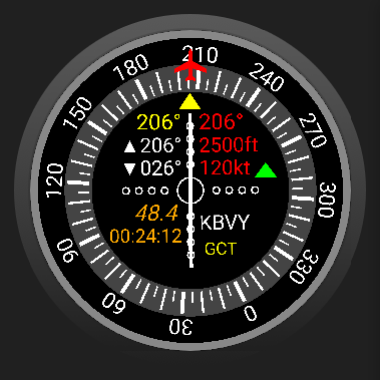
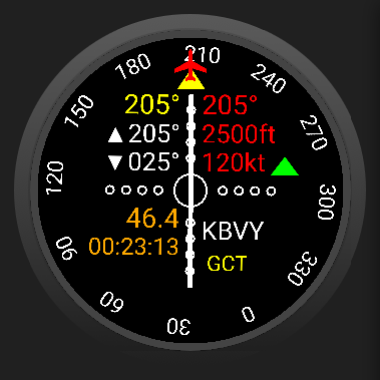
remove non-simplified display mode

Changed region(s): [[0.0579, 0.0579, 0.9263, 0.9263]]

diff --git a/icons/help.html b/icons/help.html
@@ -252,11 +252,6 @@
                             </UL>
                         <LI><B>HSI</B> - select HSI mode for nav dial (airplane always at top); else OBS with yellow triangle always at top
                         <LI><B>Ambient</B> - slow to 20 seconds per GPS sample in ambient mode; else maintain 1 second per sample
-                        <LI><B>Simplify</B> - simplify nav dial page allowing text to be enlarged
-                            <TABLE>
-                                <TR><TD>Normal</TD><TD>Simplified</TD></TR>
-                                <TR><TD><IMG SRC="main-page.png" WIDTH=107 HEIGHT=107></TD><TD><IMG SRC="simplified.png" WIDTH=107 HEIGHT=107></TD></TR>
-                            </TABLE>
                         <LI><B>Time Dots</B> - display time received from GPS as dots around the perimeter of displays
                             <UL>
                                 <LI><FONT COLOR=RED>RED</FONT> dot indicates HOURS

diff --git a/app/src/main/java/com/outerworldapps/hsiwatch/OBSDialView.java b/app/src/main/java/com/outerworldapps/hsiwatch/OBSDialView.java
@@ -39,7 +39,6 @@ public abstract class OBSDialView extends DialFlickView {
 
     protected final static int INNARDSRADIUS = 630;
     protected abstract double getDispMagVar ();
-    protected abstract boolean getSimplify ();
     protected abstract void onDrawInnards (Canvas canvas, double trueup, double scale);
 
     private boolean firstTime;
@@ -54,10 +53,7 @@ public abstract class OBSDialView extends DialFlickView {
     private MainActivity mainActivity;
     private Paint adfNeedlePaint;
     private Paint dialBackPaint;
-    private Paint dialFatPaint;
-    private Paint dialMidPaint;
     private Paint dialTextPaint;
-    private Paint dialThinPaint;
     private Paint dirArrowPaint;
     private Paint dmeDistPaint;
     private Paint dmeTimePaint;
@@ -99,23 +95,11 @@ public abstract class OBSDialView extends DialFlickView {
         dialBackPaint.setStrokeWidth (175);
         dialBackPaint.setStyle (Paint.Style.STROKE);
 
-        dialFatPaint = new Paint ();
-        dialFatPaint.setColor (Color.WHITE);
-        dialFatPaint.setStrokeWidth (25);
-
-        dialMidPaint = new Paint ();
-        dialMidPaint.setColor (Color.WHITE);
-        dialMidPaint.setStrokeWidth (15);
-
         dialTextPaint = new Paint ();
         dialTextPaint.setColor (Color.WHITE);
         dialTextPaint.setStrokeWidth (10);
         dialTextPaint.setTextAlign (Paint.Align.CENTER);
         dialTextPaint.setTextSize (140);
-
-        dialThinPaint = new Paint ();
-        dialThinPaint.setColor (Color.WHITE);
-        dialThinPaint.setStrokeWidth (10);
 
         dirArrowPaint = new Paint ();
         dirArrowPaint.setStyle (Paint.Style.FILL_AND_STROKE);
@@ -321,9 +305,6 @@ public abstract class OBSDialView extends DialFlickView {
         canvas.save ();
         try {
 
-            // simplified format
-            boolean simplify = getSimplify ();
-
             // set up translation/scaling so that outer ring is radius 1000 centered at 0,0
             float width = getWidth ();
             float height = getHeight ();
@@ -395,53 +376,27 @@ public abstract class OBSDialView extends DialFlickView {
             canvas.save ();
             try {
                 canvas.clipPath (circleClipPath);
-                if (simplify) {
-                    canvas.scale (SIMPLESCALE, SIMPLESCALE);
-                    scale *= SIMPLESCALE;
-                }
+                canvas.scale (SIMPLESCALE, SIMPLESCALE);
+                scale *= SIMPLESCALE;
                 onDrawInnards (canvas, trueup, scale);
             } finally {
                 canvas.restore ();
             }
-
-            // draw backing for tickmarks
-            if (!simplify) canvas.drawCircle (0, 0, 718, dialBackPaint);
 
             // everything below drawn assuming magnetic north is up
             canvas.rotate ((float) -magvar);
 
             // draw OBS dial with "0" at top
             canvas.drawCircle (0, 0, 890, obsBackPaint);
-            int step = simplify ? 30 : 5;
-            for (int deg = 0; deg < 360; deg += step) {
-                switch ((deg / 5) % 6) {
-                    case 0: {
-                        // number and a thick line
-                        canvas.drawText (Integer.toString (deg), 0, -823, dialTextPaint);
-                        if (!simplify) canvas.drawLine (0, -647, 0, -788, dialFatPaint);
-                        break;
-                    }
-                    case 2:
-                    case 4: {
-                        // a medium line
-                        canvas.drawLine (0, -647, 0, -788, dialMidPaint);
-                        break;
-                    }
-                    case 1:
-                    case 3:
-                    case 5: {
-                        // a small thin line
-                        canvas.drawLine (0, -647, 0, -718, dialThinPaint);
-                        break;
-                    }
-                }
-                canvas.rotate (step);
+            for (int deg = 0; deg < 360; deg += 30) {
+                canvas.drawText (Integer.toString (deg), 0, -823, dialTextPaint);
+                canvas.rotate (30);
             }
 
             // draw obs triangle
             canvas.save ();
             try {
-                if (simplify) canvas.scale (SIMPLESCALE, SIMPLESCALE);
+                canvas.scale (SIMPLESCALE, SIMPLESCALE);
                 canvas.rotate ((float) mainActivity.obsSetting);
                 canvas.drawPath (obsArrowPath, obsArrowPaint);
             } finally {

diff --git a/app/src/main/java/com/outerworldapps/hsiwatch/DownloadThread.java b/app/src/main/java/com/outerworldapps/hsiwatch/DownloadThread.java
@@ -40,12 +40,13 @@ import java.net.HttpURLConnection;
 import java.net.URL;
 import java.security.MessageDigest;
 import java.security.NoSuchAlgorithmException;
-import java.text.ParseException;
 import java.text.SimpleDateFormat;
 import java.util.Date;
 import java.util.Locale;
 import java.util.TimeZone;
 import java.util.zip.GZIPInputStream;
+
+import androidx.annotation.NonNull;
 
 /**
  * Thread what downloads latest database.
@@ -79,7 +80,7 @@ public class DownloadThread implements DatabaseErrorHandler, Runnable {
     public void deleteAll ()
     {
         File[] files = new File (dbdir).listFiles ();
-        for (File file : files) {
+        if (files != null) for (File file : files) {
             Lib.Ignored (file.delete ());
         }
     }
@@ -101,6 +102,7 @@ public class DownloadThread implements DatabaseErrorHandler, Runnable {
             latestdb = 0;
             SimpleDateFormat sdf = new SimpleDateFormat ("yyyyMMdd", Locale.US);
             sdf.setTimeZone (TimeZone.getTimeZone ("UTC"));
+            //noinspection ConstantConditions
             for (File oldfile : new File (dbdir).listFiles ()) {
                 String oldname = oldfile.getName ();
                 if (oldname.startsWith ("wayptabbs_") && oldname.endsWith (".db")) {
@@ -112,6 +114,7 @@ public class DownloadThread implements DatabaseErrorHandler, Runnable {
                     }
                     try {
                         String expstr = oldname.substring (10, oldname.length () - 3);
+                        @SuppressWarnings("ConstantConditions")
                         long dbexp = sdf.parse (expstr).getTime ();
                         if (latestdb < dbexp) {
                             latestdb = dbexp;
@@ -245,6 +248,7 @@ public class DownloadThread implements DatabaseErrorHandler, Runnable {
                 }
 
                 // delete any old files (including temps)
+                //noinspection ConstantConditions
                 for (File oldfile : new File (dbdir).listFiles ()) {
                     if (oldfile.getName ().startsWith ("wayptabbs_") && ! oldfile.equals (permfile)) {
                         //noinspection ResultOfMethodCallIgnored
@@ -386,7 +390,7 @@ public class DownloadThread implements DatabaseErrorHandler, Runnable {
 
         // read next block, either from old temp file or from network
         @Override
-        public int read (byte[] buf, int ofs, int len)
+        public int read (@NonNull byte[] buf, int ofs, int len)
                 throws IOException
         {
             if (len > filesize - bytesread) len = (int) (filesize - bytesread);
@@ -498,9 +502,10 @@ public class DownloadThread implements DatabaseErrorHandler, Runnable {
         SimpleDateFormat sdf = new SimpleDateFormat ("yyyyMMdd", Locale.US);
         sdf.setTimeZone (TimeZone.getTimeZone ("UTC"));
         try {
+            //noinspection ConstantConditions
             latestdb = sdf.parse (dbpath.substring (i + 11, i + 19)).getTime ();
-        } catch (ParseException pe) {
-            throw new IllegalArgumentException ("bad dbpath " + dbpath, pe);
+        } catch (Exception e) {
+            throw new IllegalArgumentException ("bad dbpath " + dbpath, e);
         }
 
         dbexp = dbpath.substring (i + 11, i + 15) + "-" +

diff --git a/app/src/main/java/com/outerworldapps/hsiwatch/MainActivity.java b/app/src/main/java/com/outerworldapps/hsiwatch/MainActivity.java
@@ -246,9 +246,11 @@ public class MainActivity extends WearableActivity {
     @Override
     public void onDestroy ()
     {
-        navModeButton.setMode (NavDialView.Mode.OFF);
-        currentMainPage = null;
-        activateGPS ();
+        if (navModeButton != null) {
+            navModeButton.setMode (NavDialView.Mode.OFF);
+            currentMainPage = null;
+            activateGPS ();
+        }
 
         super.onDestroy ();
     }
@@ -394,21 +396,17 @@ public class MainActivity extends WearableActivity {
         // maybe load up waypoint from preferences
         SharedPreferences prefs = getPreferences (MODE_PRIVATE);
         String navWayptId = prefs.getString ("navWayptId", "");
-        if ((navWayptId != null) && ! navWayptId.equals ("")) {
+        if (! navWayptId.equals ("")) {
             navModeButton.identEntry.setText (navWayptId);
             SQLiteDatabase sqldb = downloadThread.getSqlDB ();
             if (sqldb != null) {
                 LatLon refll = new LatLon ();
-                //noinspection ConstantConditions
                 refll.lat = Double.parseDouble (prefs.getString ("navWayptLat", "0.0"));
-                //noinspection ConstantConditions
                 refll.lon = Double.parseDouble (prefs.getString ("navWayptLon", "0.0"));
                 setNavWaypt (Waypt.find (sqldb, navWayptId, refll));
             }
         }
-        //noinspection ConstantConditions
         startlat = Lib.parseDouble (prefs.getString ("startlat", "NaN"));
-        //noinspection ConstantConditions
         startlon = Lib.parseDouble (prefs.getString ("startlon", "NaN"));
     }
 

diff --git a/app/src/main/java/com/outerworldapps/hsiwatch/MenuMainPage.java b/app/src/main/java/com/outerworldapps/hsiwatch/MenuMainPage.java
@@ -41,7 +41,6 @@ public class MenuMainPage {
     public  CheckBox ambEnabCkBox;
     public  CheckBox fillChinCkBox;
     public  CheckBox hsiModeCkBox;
-    public  CheckBox simplifyCkBox;
     public  CheckBox timeDotsCkBox;
     private SendMainPage sendMainPage;
     private int numResetClicks;
@@ -120,18 +119,6 @@ public class MenuMainPage {
                 boolean checked = ambEnabCkBox.isChecked ();
                 SharedPreferences.Editor editr = prefs.edit ();
                 editr.putBoolean ("ambModeEnab", checked);
-                editr.apply ();
-            }
-        });
-
-        simplifyCkBox = menuPageView.findViewById (R.id.simplifyCkBox);
-        simplifyCkBox.setChecked (prefs.getBoolean ("simplify", false));
-        simplifyCkBox.setOnClickListener (new View.OnClickListener () {
-            @Override
-            public void onClick (View v)
-            {
-                SharedPreferences.Editor editr = prefs.edit ();
-                editr.putBoolean ("simplify", simplifyCkBox.isChecked ());
                 editr.apply ();
             }
         });

diff --git a/app/src/main/java/com/outerworldapps/hsiwatch/GpsStatusView.java b/app/src/main/java/com/outerworldapps/hsiwatch/GpsStatusView.java
@@ -101,8 +101,8 @@ public class GpsStatusView
         gravity    = null;
         compRotDeg = Float.NaN;
         textPaint.setTextSize (24.0F);
-        instrSM    = getContext ().getSystemService (SensorManager.class);
-        if (USECOMPASS) {
+        if (USECOMPASS) instrSM = getContext ().getSystemService (SensorManager.class);
+        if (instrSM != null) {
             Sensor smf = instrSM.getDefaultSensor (Sensor.TYPE_MAGNETIC_FIELD);
             Sensor sac = instrSM.getDefaultSensor (Sensor.TYPE_ACCELEROMETER);
             instrSM.registerListener (this, smf, SensorManager.SENSOR_DELAY_UI);
@@ -114,7 +114,7 @@ public class GpsStatusView
 
     public void Shutdown ()
     {
-        instrSM.unregisterListener (this);
+        if (instrSM != null) instrSM.unregisterListener (this);
         mainActivity.gpsReceiver.stopStatusSensor ();
     }
 

diff --git a/app/src/main/java/com/outerworldapps/hsiwatch/Lib.java b/app/src/main/java/com/outerworldapps/hsiwatch/Lib.java
@@ -380,22 +380,6 @@ public class Lib {
     }
 
     /**
-     * Dismiss a dialog box.
-     */
-    public static void dismiss (DialogInterface dialog)
-    {
-        if (dialog != null) {
-            try {
-                dialog.dismiss ();
-            } catch (Exception e) {
-                // got IllegalArgumentException in PhoneWindow$DecorView
-                // ... not attached to window manager
-                Log.w (MainActivity.TAG, "exception dismissing dialog", e);
-            }
-        }
-    }
-
-    /**
      * Various compiler warnings.
      */
     public static void Ignored (@SuppressWarnings("UnusedParameters") boolean x) { }

diff --git a/app/src/main/java/com/outerworldapps/hsiwatch/NavModeButton.java b/app/src/main/java/com/outerworldapps/hsiwatch/NavModeButton.java
@@ -269,7 +269,7 @@ public class NavModeButton {
             StringBuilder sb = new StringBuilder ();
             List<String> results = data.getStringArrayListExtra (RecognizerIntent.EXTRA_RESULTS);
             boolean turnedOff = false;
-            for (String result : results) {
+            if (results != null) for (String result : results) {
                 Log.d (MainActivity.TAG, "speech result='" + result + "'");
                 for (String word : result.replace ("/", " ").split (" ")) {
                     Character ch = letters.get (word.toLowerCase (Locale.US));

diff --git a/app/src/main/java/com/outerworldapps/hsiwatch/BluetoothServer.java b/app/src/main/java/com/outerworldapps/hsiwatch/BluetoothServer.java
@@ -131,6 +131,7 @@ public class BluetoothServer {
         {
             try {
                 BluetoothManager bm = udpMainPage.mainActivity.getSystemService (BluetoothManager.class);
+                @SuppressWarnings("ConstantConditions")
                 BluetoothAdapter ba = bm.getAdapter ();
                 if (ba == null) throw new Exception ("no bluetooth on this device");
                 serverSocket = ba.listenUsingInsecureRfcommWithServiceRecord ("HSIWatch", sppUUID);

diff --git a/app/src/main/java/com/outerworldapps/hsiwatch/OpenStreetMap.java b/app/src/main/java/com/outerworldapps/hsiwatch/OpenStreetMap.java
@@ -606,6 +606,7 @@ public class OpenStreetMap {
                      * Read stream into temp file.
                      */
                     try (InputStream is = httpCon.getInputStream ()) {
+                        //noinspection ConstantConditions
                         Lib.Ignored (permfile.getParentFile ().mkdirs ());
                         try (OutputStream os = new FileOutputStream (tempfile)) {
                             byte[] buff = new byte[4096];

diff --git a/app/src/main/java/com/outerworldapps/hsiwatch/AcraApplication.java b/app/src/main/java/com/outerworldapps/hsiwatch/AcraApplication.java
@@ -95,7 +95,7 @@ public class AcraApplication extends Application {
                  * Loop through all files in the data directory.
                  */
                 File[] filelist = dir.listFiles ();
-                for (File file : filelist) {
+                if (filelist != null) for (File file : filelist) {
 
                     /*
                      * Delete any files ending in .acra.gz.tmp cuz they weren't finished.

diff --git a/app/src/main/java/com/outerworldapps/hsiwatch/RwyDiagView.java b/app/src/main/java/com/outerworldapps/hsiwatch/RwyDiagView.java
@@ -226,13 +226,6 @@ public class RwyDiagView extends OBSDialView implements Invalidatable {
         return (airport == null) ? 0.0 : airport.getMagVar (0.0);
     }
 
-    // always use simplified display
-    @Override
-    protected boolean getSimplify ()
-    {
-        return true;
-    }
-
     // draw diagram assuming true north is up
     @Override
     protected void onDrawInnards (Canvas canvas, double trueup, double scale)
